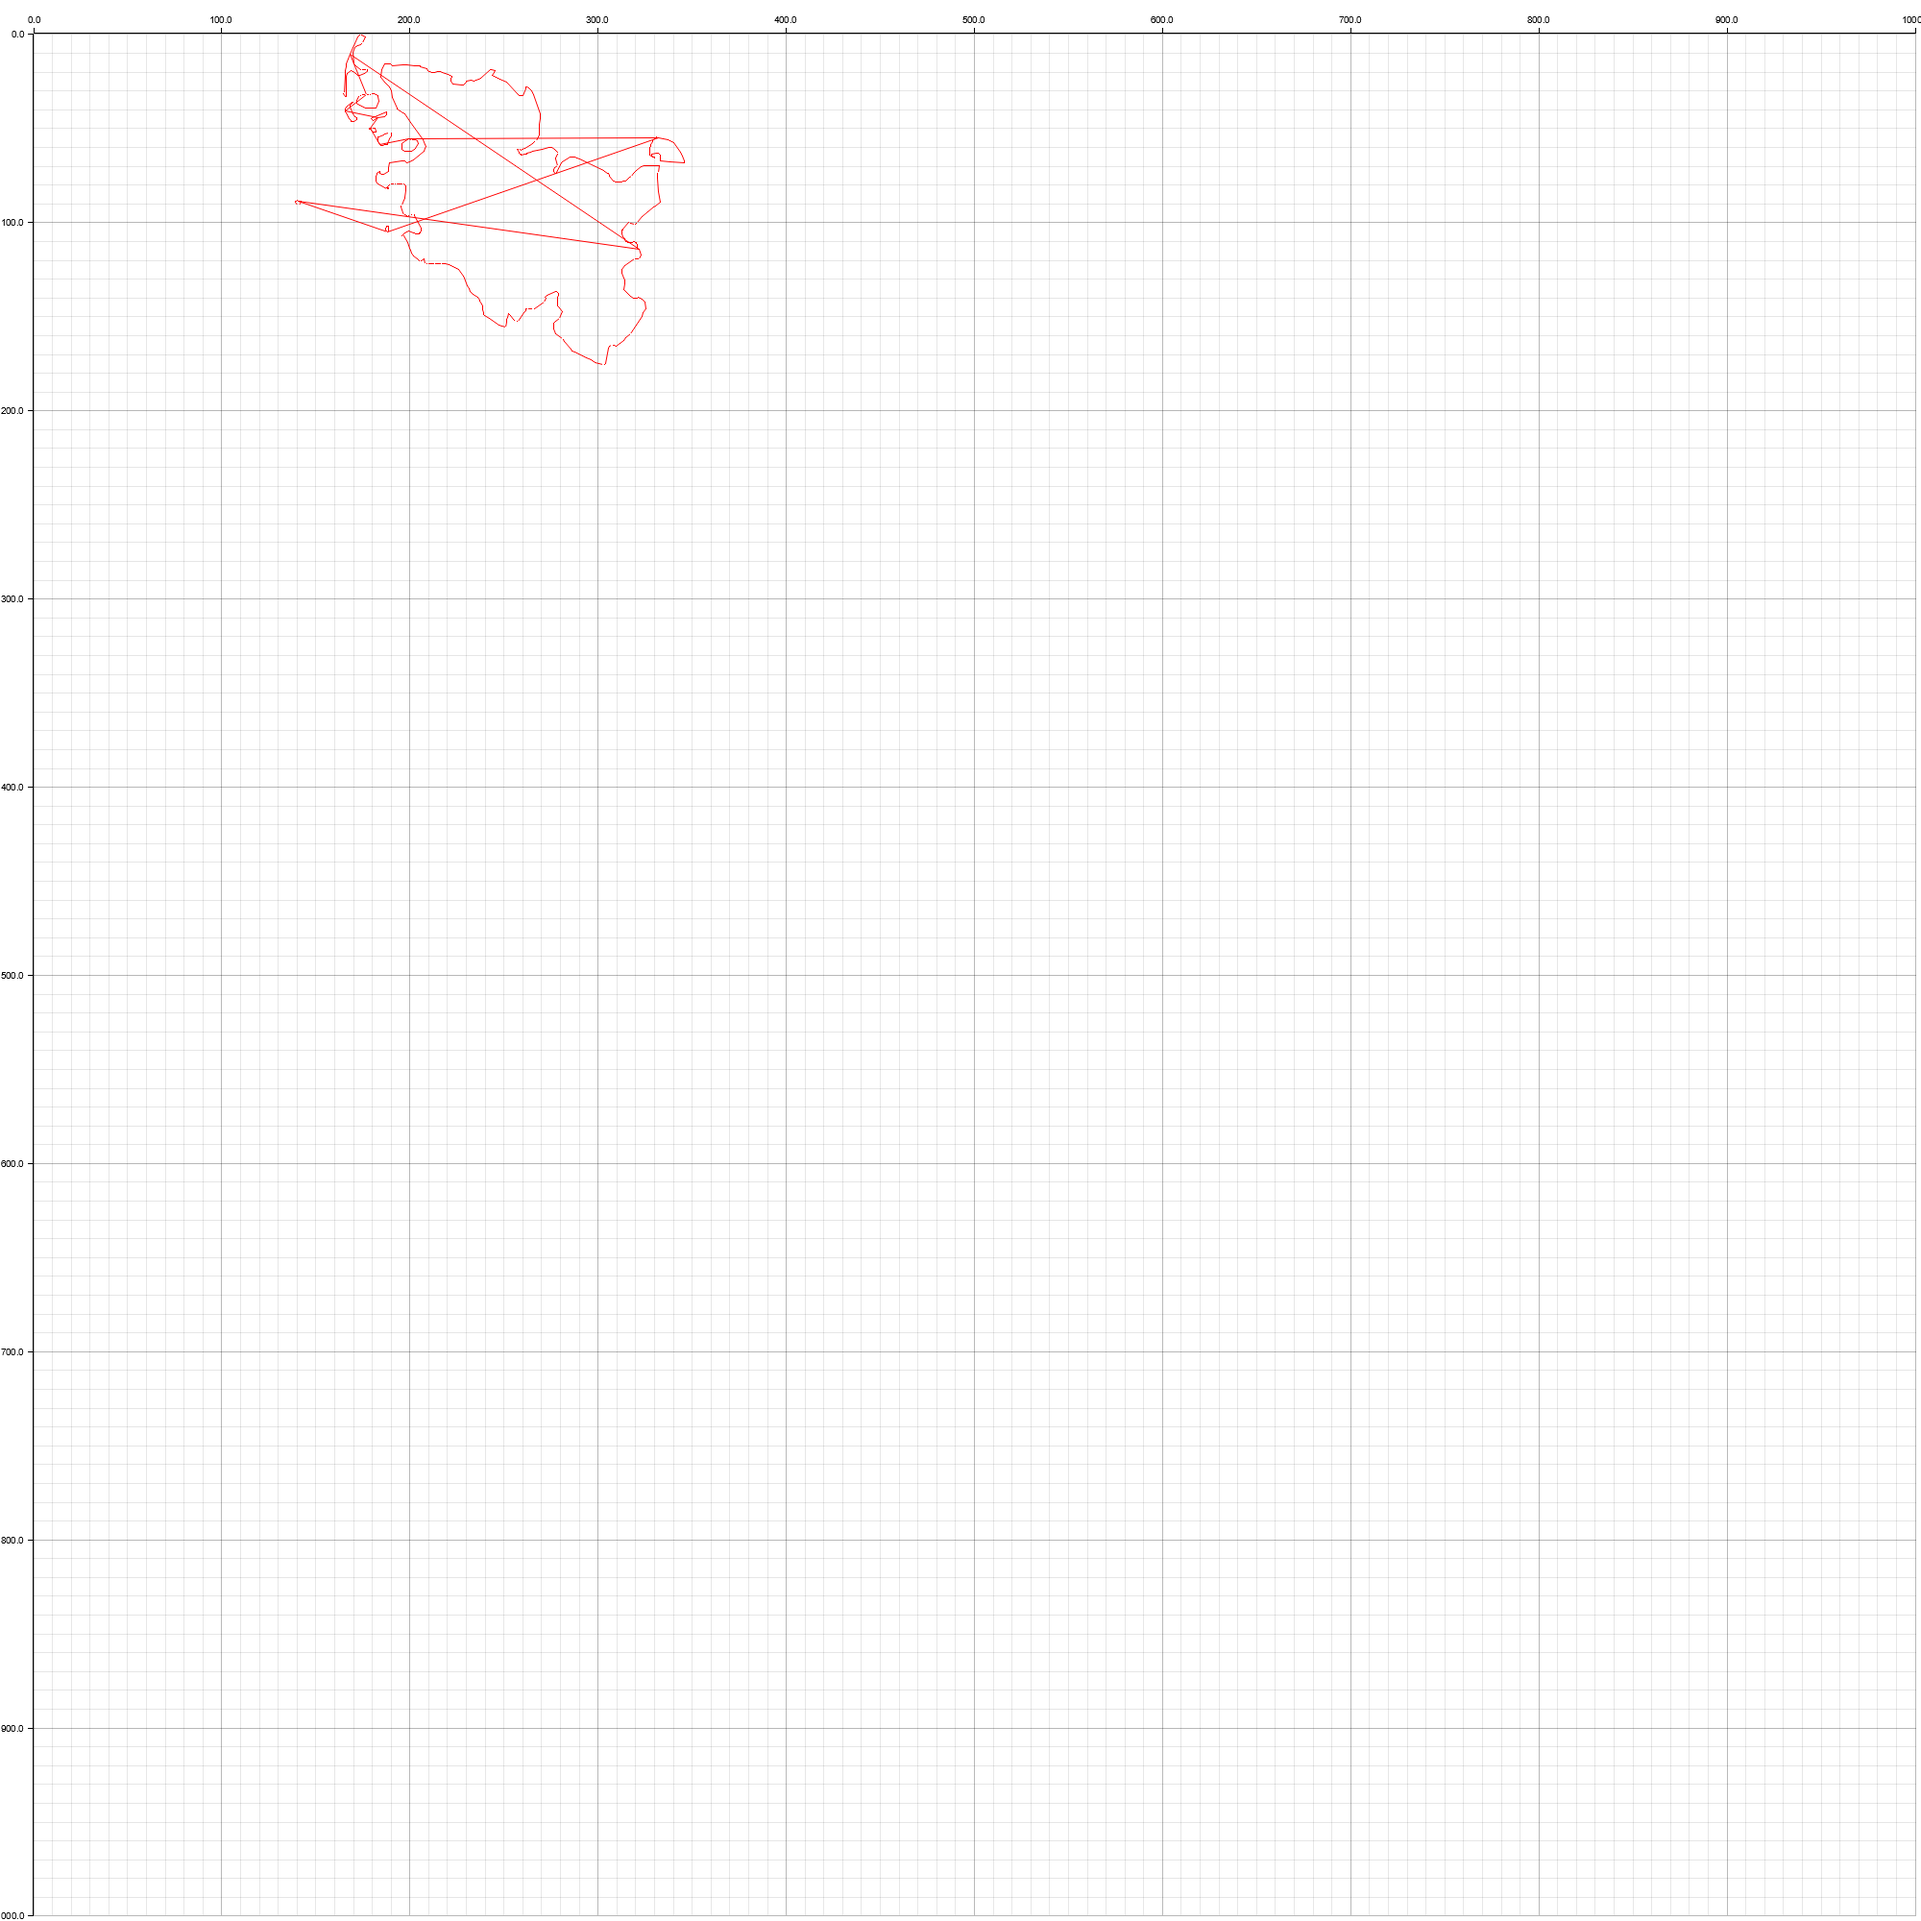
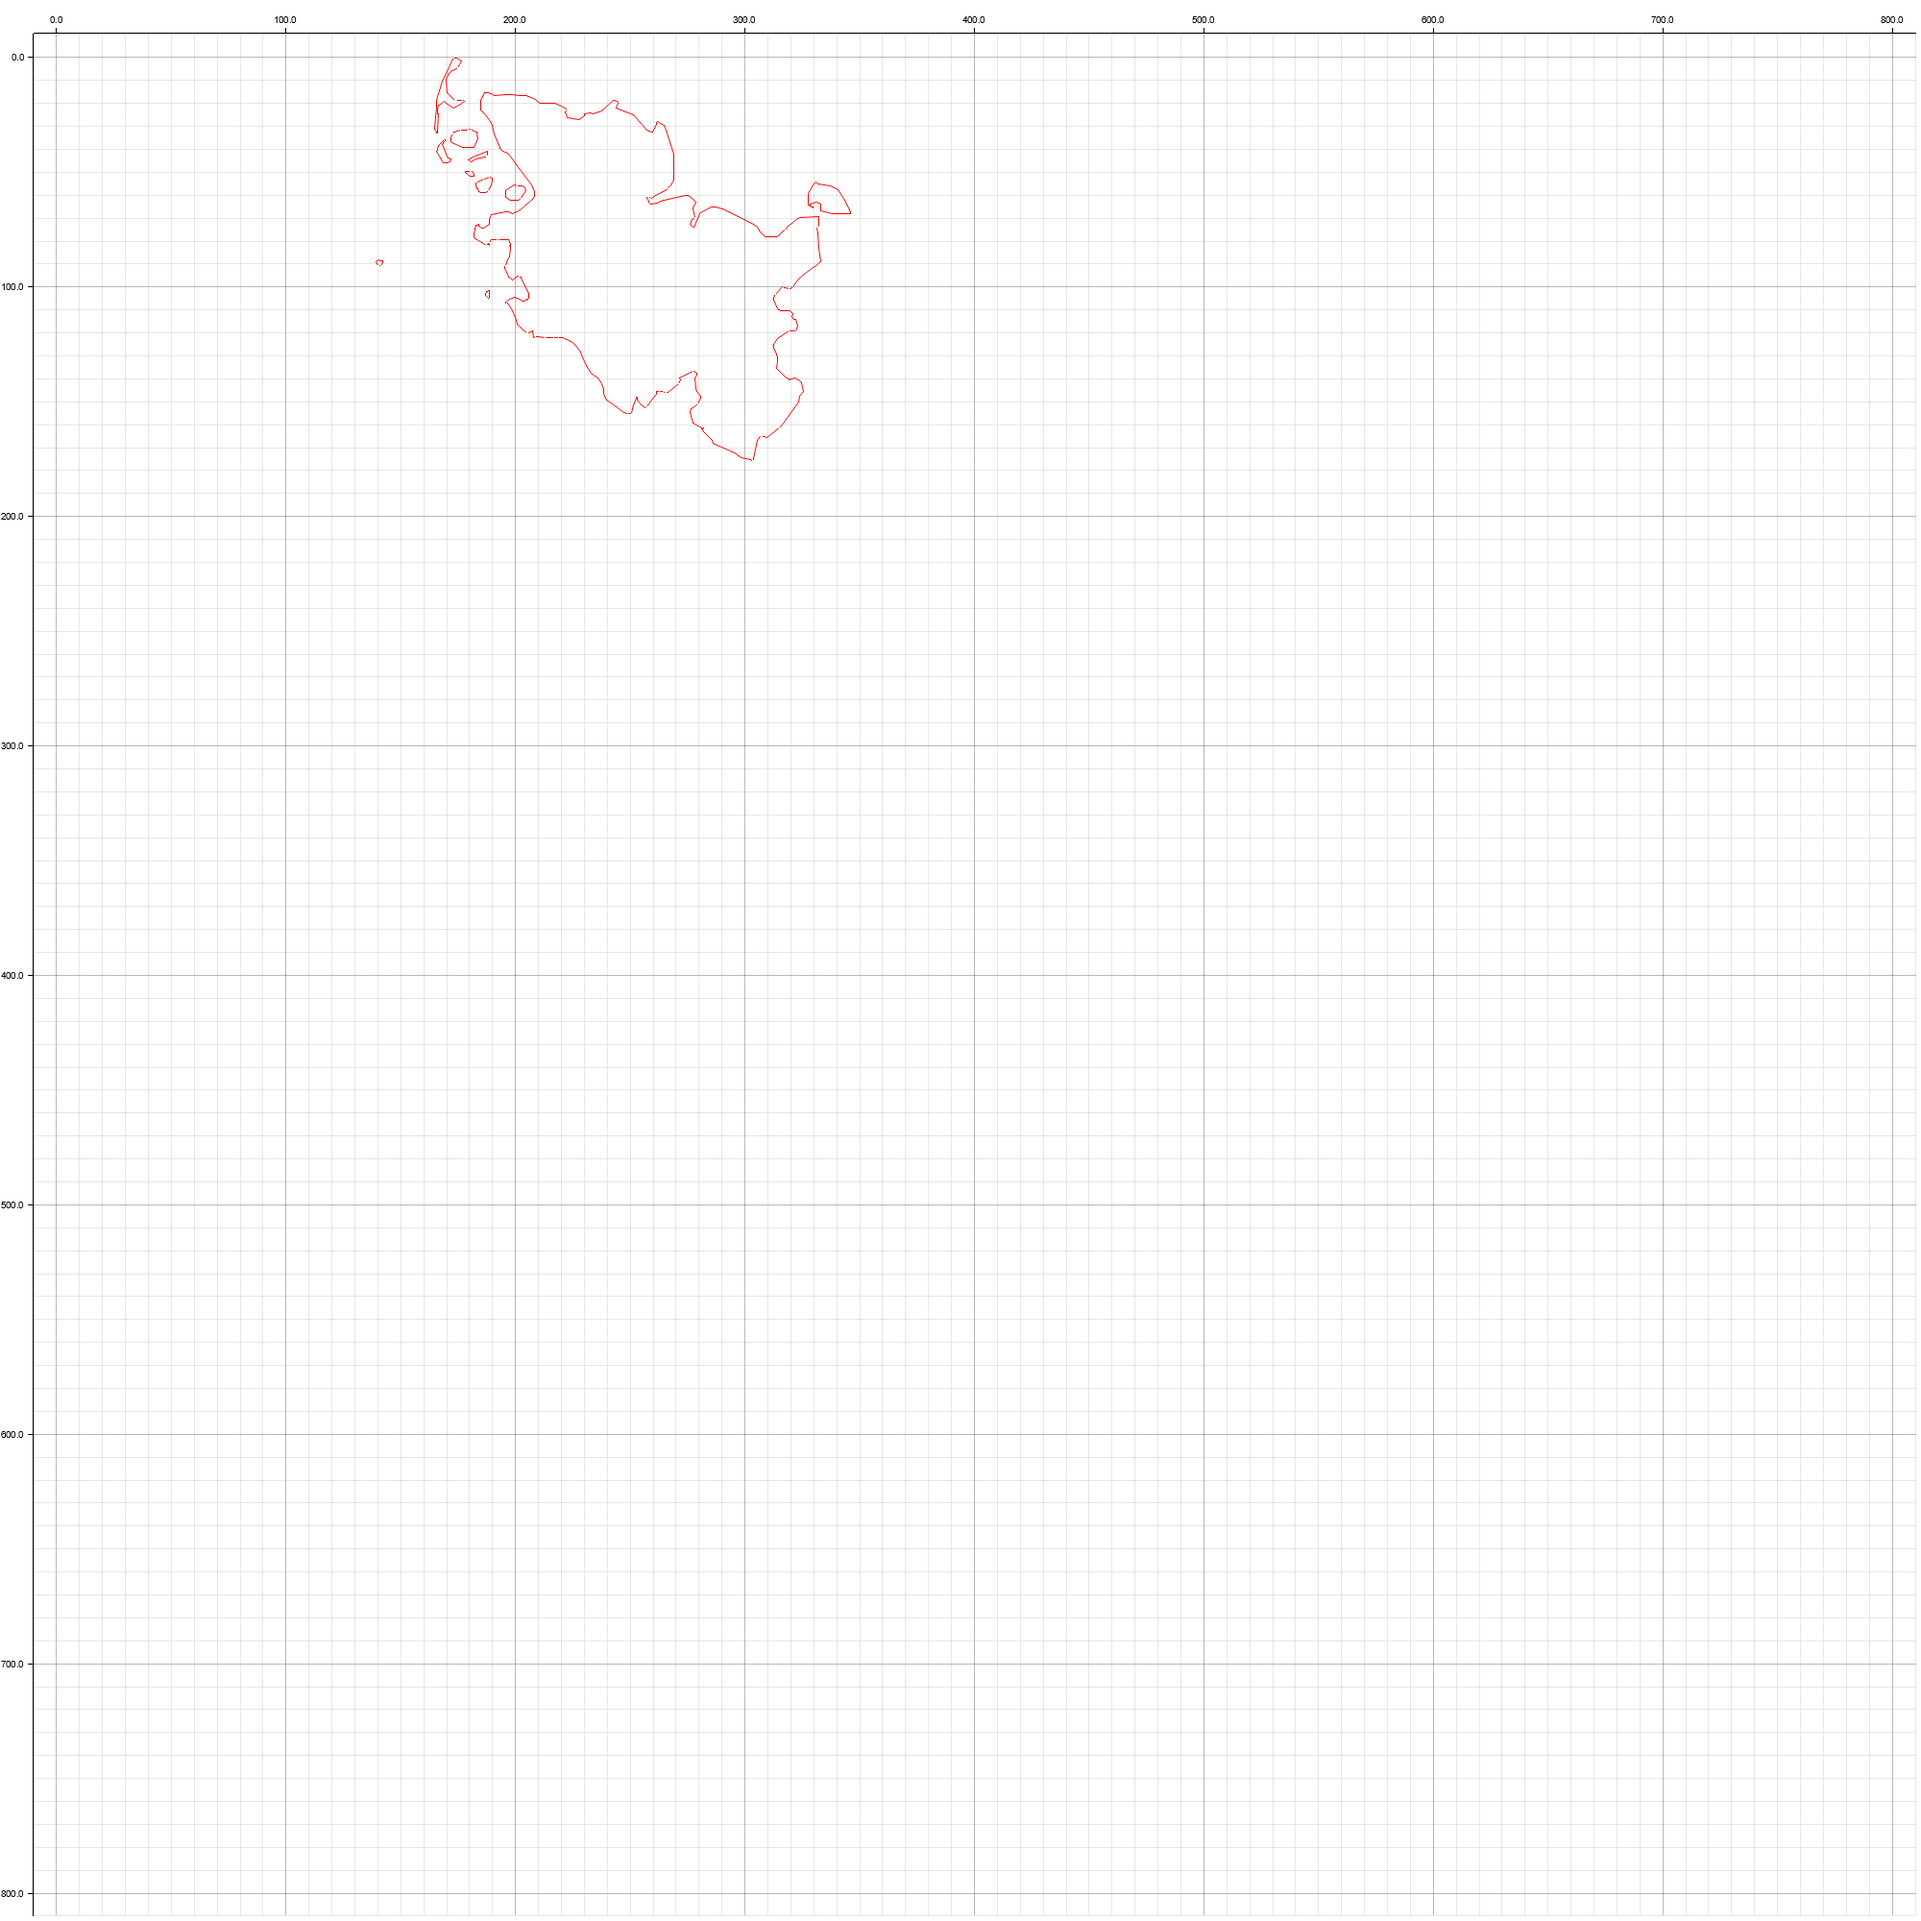
Fix merge

diff --git a/Praktikum/praktikum2/src/main.rs b/Praktikum/praktikum2/src/main.rs
@@ -5,7 +5,6 @@ use std::vec;
 use plotters::prelude::*;
 
 fn main() -> Result<(), Box<dyn std::error::Error>> {
-
     // Speichere die Koordinaten der Bundesländer aus Deutschland in jeweils eigene .txt-Dateien
     //save_coordinates_from_each_state();
 
@@ -21,7 +20,6 @@ fn main() -> Result<(), Box<dyn std::error::Error>> {
     let mut germany_plot: vec::Vec<Vec<(f32, f32)>> = Vec::new();
 
     for state in states {
-
         let filename = format!("states/{}", state);
         let mut state_points: Vec<Vec<(f32, f32)>> = relative_file_to_absolute_vector(format!("{}{}", &filename, ".txt"));
 
@@ -39,56 +37,48 @@ fn main() -> Result<(), Box<dyn std::error::Error>> {
         // Gesamtfläche
         let mut d_ges = 0.0;
         let mut t_ges = 0.0;
+        let mut s_ges = 0.0; // Shoelace-Formel
+        let mut ds_ges = 0.0; // Dreiecks-Shoelace-Formel
 
         for connected_points in &mut state_points {
             // Wähle Punkte n und n+1 aus letztem points-Vector
             for i in 0..connected_points.len() - 1 {
 
-                // Punkte ausgabe von points[i], points[i + 1]
-                //println!("Punkt {}: ({},{}), Punkt {}: ({},{})", i, points[i].0, points[i].1, i + 1, points[i + 1].0, points[i + 1].1);
+                    // Punkte ausgabe von points[i], points[i + 1]
+                    //println!("Punkt {}: ({},{}), Punkt {}: ({},{})", i, points[i].0, points[i].1, i + 1, points[i + 1].0, points[i + 1].1);
 
-                // Berechne ccw für Punkt n und n+1
-                let sign = ccw(ursprung, connected_points[i], connected_points[i + 1]);
+                    // Berechne ccw für Punkt n und n+1
+                    let sign = ccw(ursprung, connected_points[i], connected_points[i + 1]);
 
-            // Flächeninhalt berechnen
-            let dArea = (points[i].0 * points[i + 1].1) - (points[i + 1].0 * points[i].1) / 2.0;
+                // Flächeninhalt berechnen
+                let dArea = (connected_points[i].0 * connected_points[i + 1].1) - (connected_points[i + 1].0 * connected_points[i].1) / 2.0;
 
-            // Trapezfläche berechnen
-            let tArea = (points[i].1 + points[i + 1].1) / 2.0 * (points[i].0 - points[i + 1].0);
+                // Trapezfläche berechnen
+                let tArea = (connected_points[i].1 + connected_points[i + 1].1) / 2.0 * (connected_points[i].0 - connected_points[i + 1].0);
 
 
-            // Summiere Flächen auf
-            d_ges = d_ges + sign * dArea;
-            t_ges = t_ges + sign * tArea;
+                // Summiere Flächen auf
+                d_ges = d_ges + sign * dArea;
+                t_ges = t_ges + sign * tArea;
+            }
+
+            s_ges += shoelace_formel(&connected_points);
+            ds_ges += dreieck_shoelace_formel(&connected_points);
+
+            // Füge die Punkte zum Deutschland-Plot hinzu
+            germany_plot.push(connected_points.clone());
         }
 
-        // Shoelace-Formel
-        let shoelace_area = shoelace_formel(&points);
-
-        // Dreiecks-Shoelace-Formel
-        let dreieck_shoelace_formel_area = dreieck_shoelace_formel(&points);
-
-        // Füge Punkte den Plot hinzu
-        points_to_plot.push(points);
-
-        println!("Dreiecksfläche von {}: {}", state, d_ges.abs());
-        println!("Trapezfläche von {}: {}", state, t_ges.abs());
-        println!("Trapezfläche von {}: {}", state, t_ges.abs());
-        println!("Shoelace-Formel von {}: {}", state, shoelace_area.abs());
-        println!("dreieck_shoelace_formel von {}: {}", state, dreieck_shoelace_formel_area.abs());
+        //println!("Dreiecksfläche von {}: {}", state, d_ges.abs());
+        //println!("Trapezfläche von {}: {}", state, t_ges.abs());
+        println!("Shoelace-Formel von {}: {}", state, s_ges.abs());
+        //println!("dreieck_shoelace_formel von {}: {}", state, ds_ges.abs());
     }
 
-    draw_polygon("Deutschland.png".to_owned(), germany_plot)?;
-
-
-    // Berechne ccw für Punkt n und n+1
-    // Berechne Fläche: A = (x_n * y_n+1) - (x_n+1 * y_n)/2
-    // Summiere Flächen auf: Ages += ccw * A
-
-
-
+        draw_polygon("Deutschland.png".to_owned(), germany_plot)?;
     Ok(())
 }
+
 
 // Lese die "ending" Dateien im Verzeichnis "dir_entries" ein und übergebe die Dateinamen als Vektor
 fn get_files_with_ending(states: &mut Vec<String>, dir_entries: std::fs::ReadDir, ending: &String) -> Result<(), Box<dyn std::error::Error>> {
@@ -104,6 +94,11 @@ fn get_files_with_ending(states: &mut Vec<String>, dir_entries: std::fs::ReadDir
                     }
                 }
             }
+        }
+    }
+    Ok(())
+}
+
 fn dreieck_shoelace_formel(points: &[(f32, f32)]) -> f32 {
     let mut area: f32 = 0.0;
     let n = points.len();
@@ -123,26 +118,6 @@ fn shoelace_formel(points: &[(f32, f32)]) -> f32 {
         area -= points[j].0 * points[i].1;
     }
     area.abs() / 2.0
-}
-
-fn read_points<P>(filename: P) -> io::Result<Vec<(f32, f32)>>
-where
-    P: AsRef<Path>,
-{
-    let file = File::open(filename)?;
-    let reader = io::BufReader::new(file);
-    let mut points: Vec<(f32, f32)> = Vec::new();
-
-    for line in reader.lines() {
-        let line = line?;
-        let coords: Vec<f32> = line.split(',')
-                                   .map(|s| s.parse().unwrap())
-                                   .collect();
-        if coords.len() == 2 {
-            points.push((coords[0], coords[1]));
-        }
-    }
-    Ok(())
 }
 
 // TODO: ~low prio~ Speichert die Koordinaten der Bundesländer aus DeutschlandMitStaedten.svg in jeweils einer "state".txt Datei
